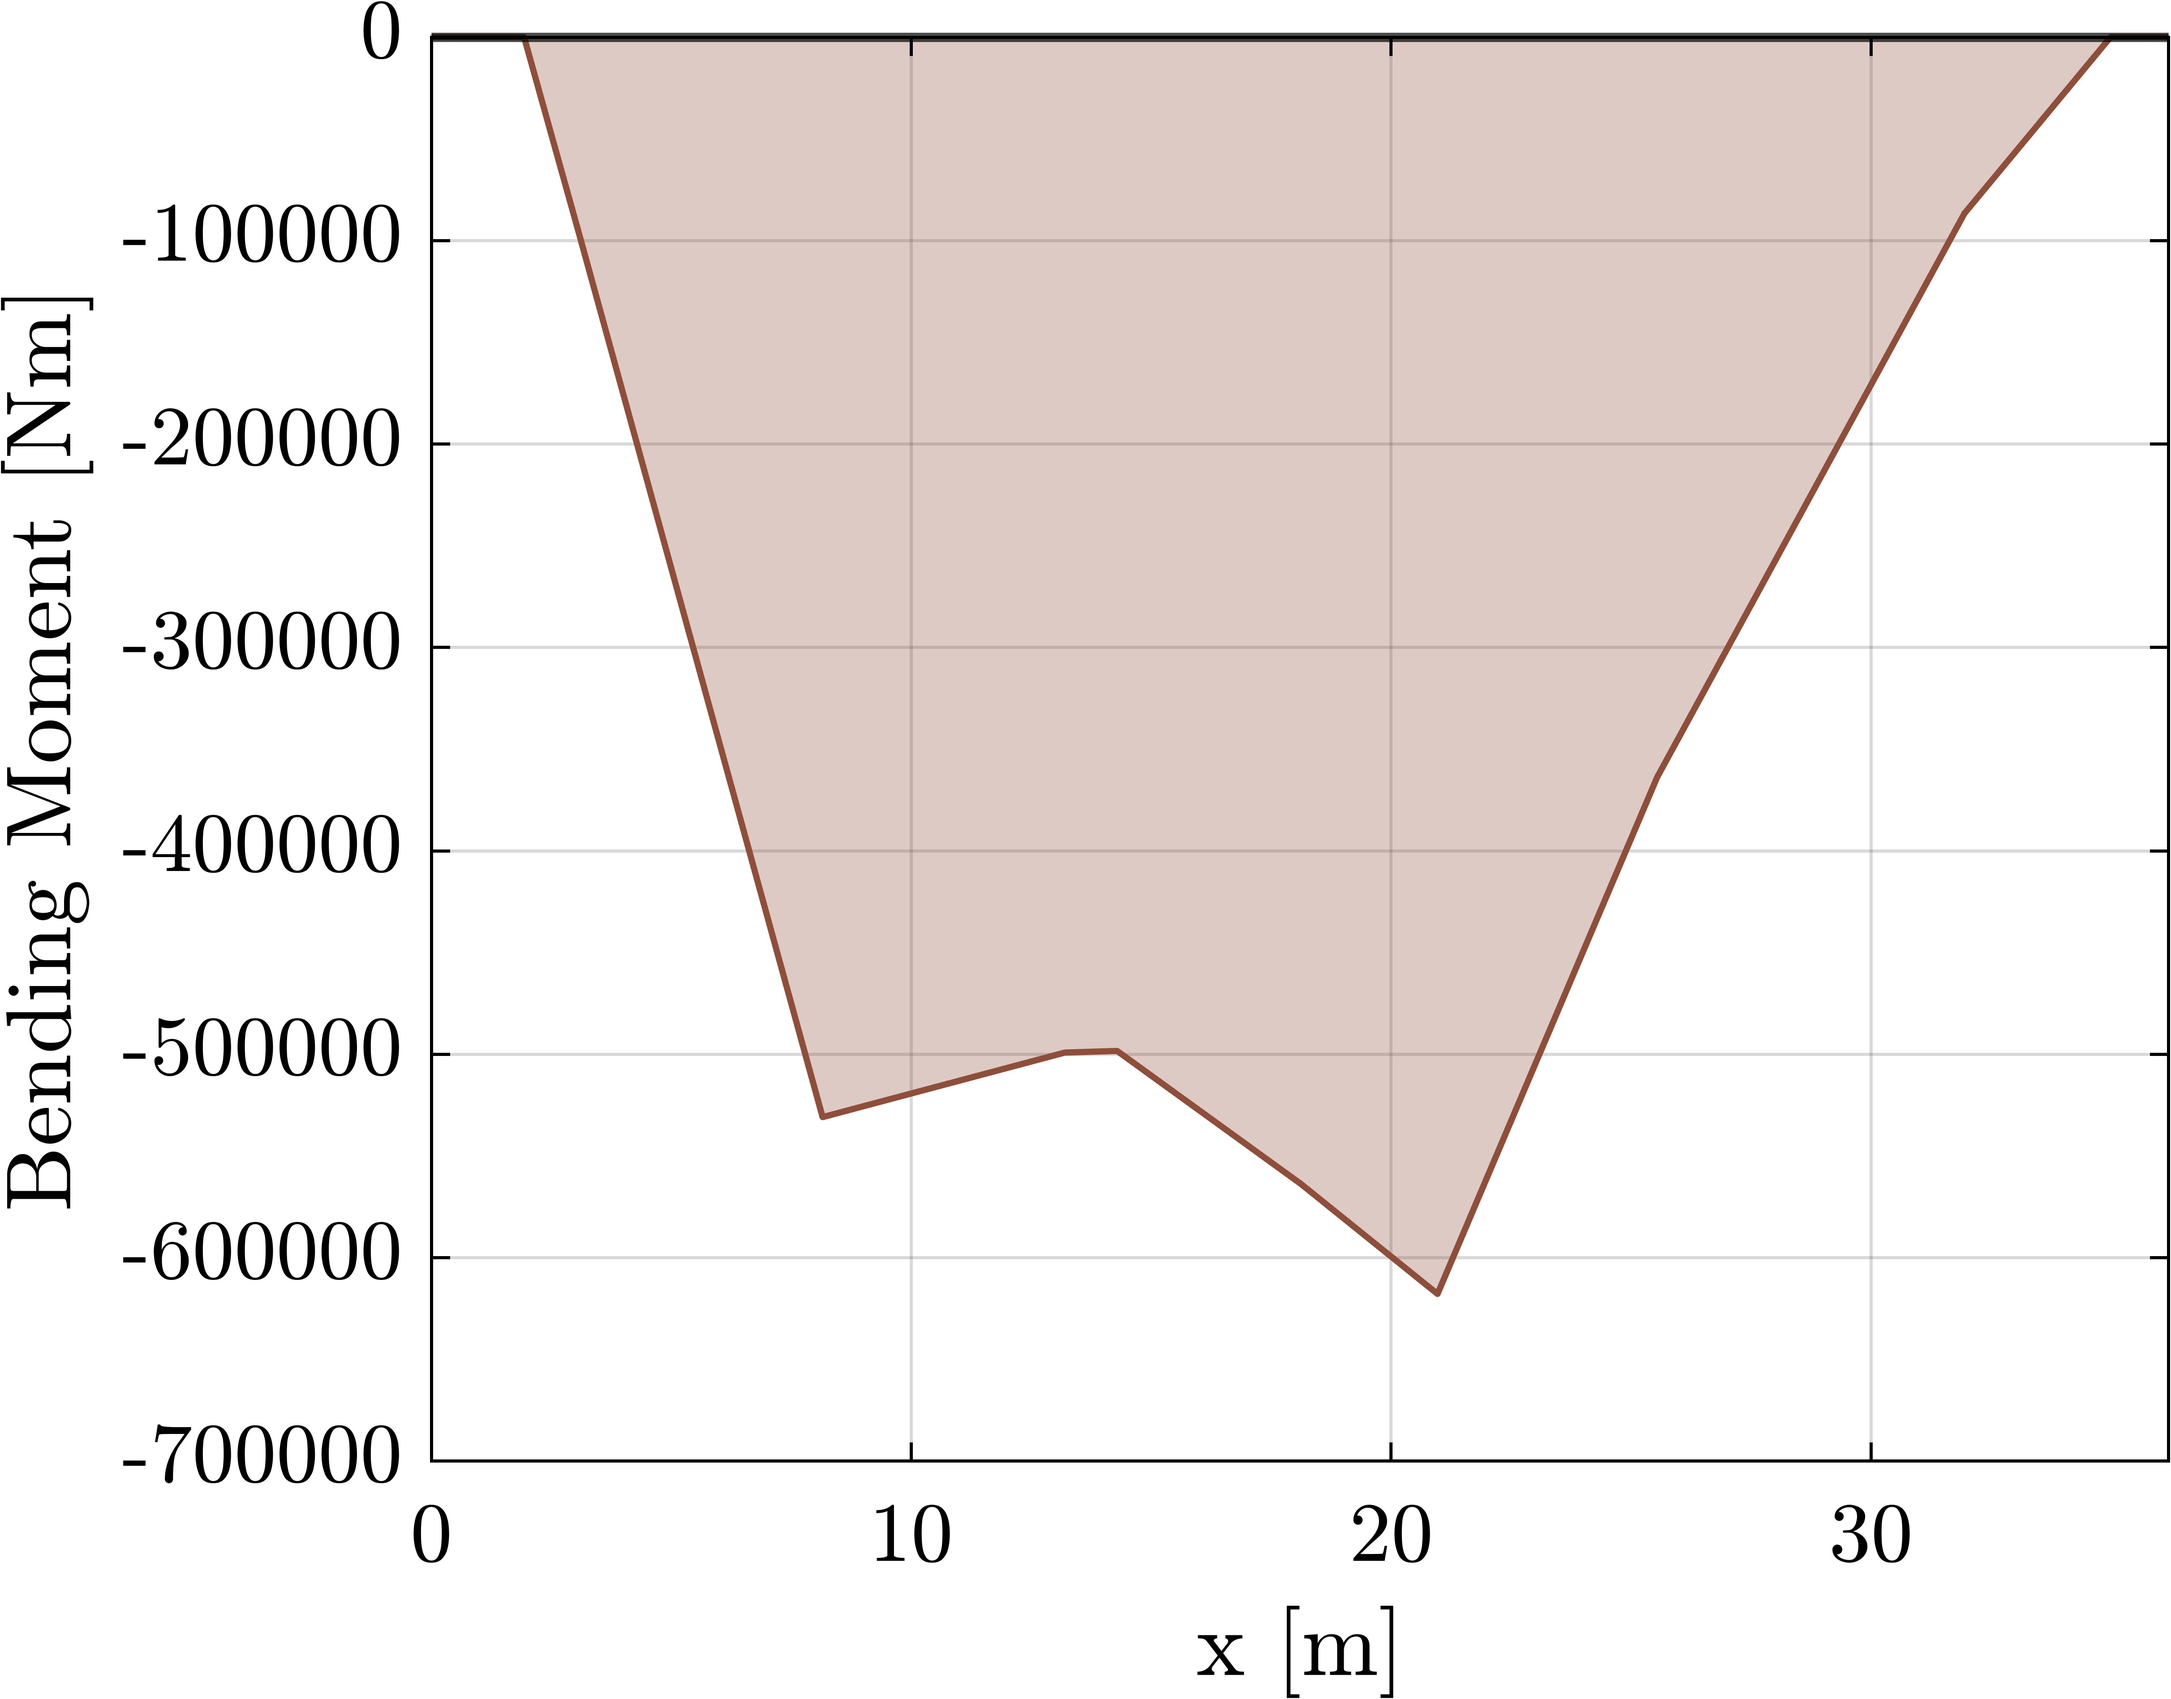
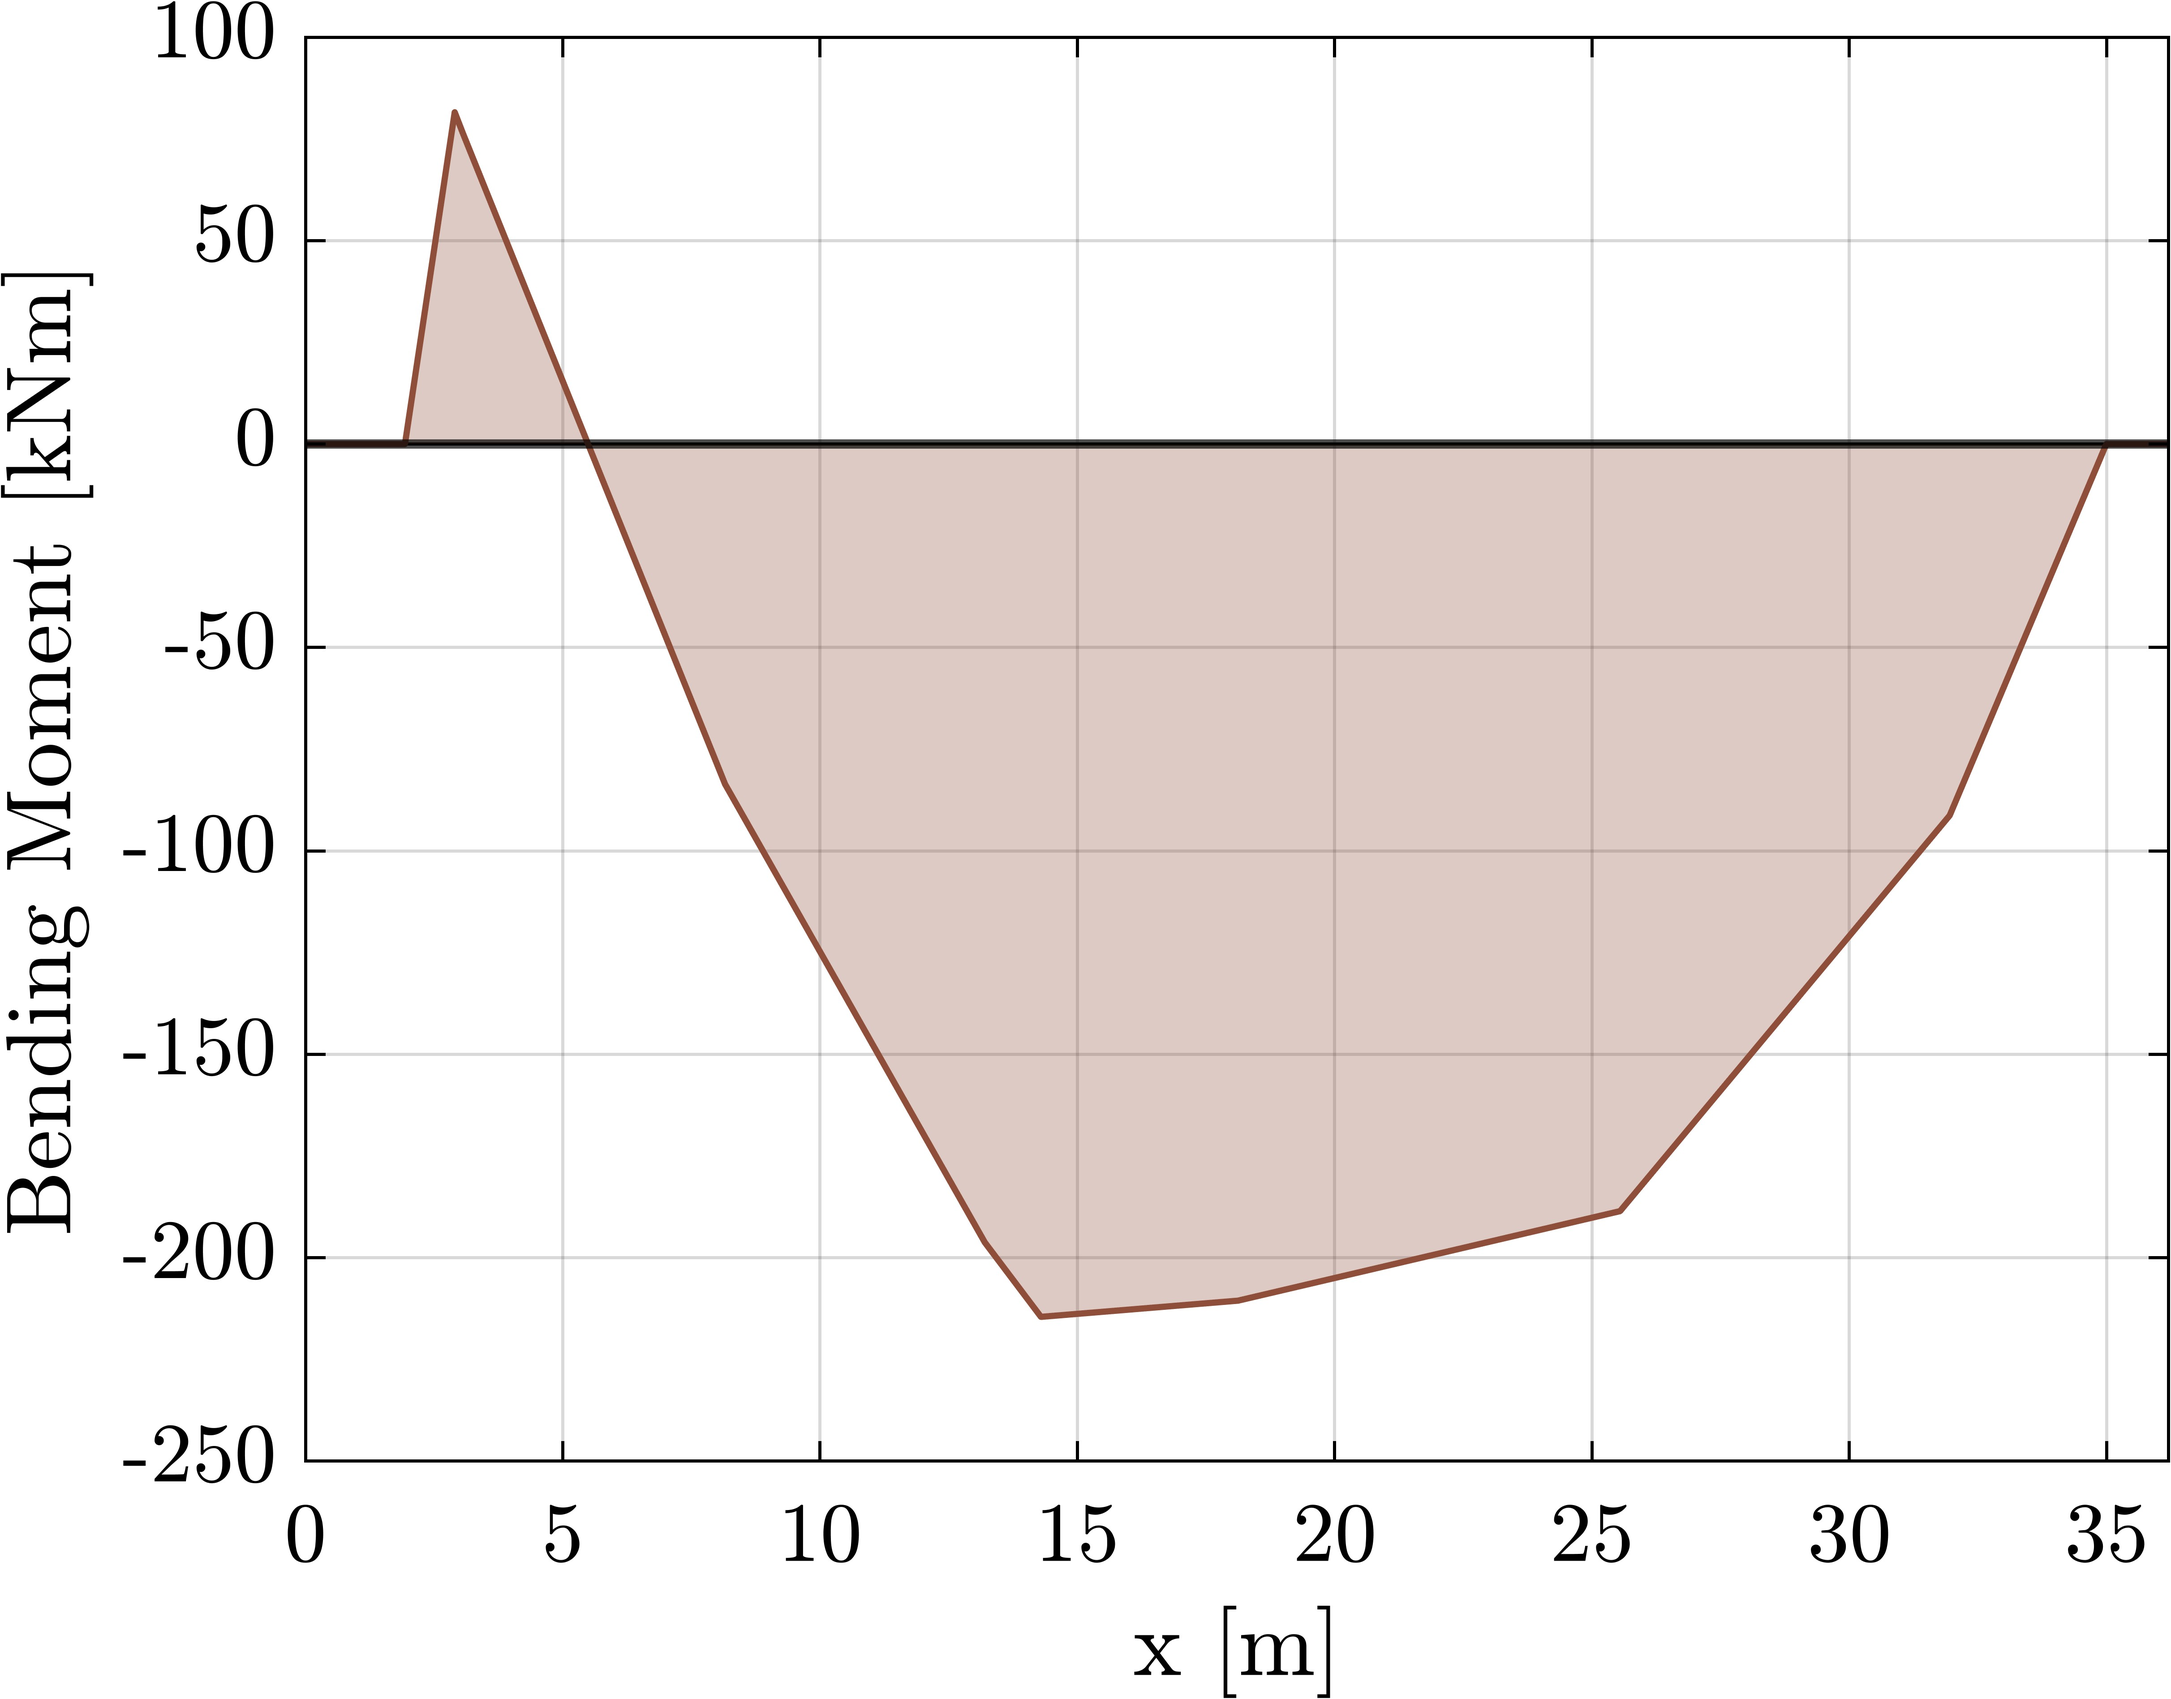
.

diff --git a/Codici/structures/loadsMECO/externalLoadsMECO.m b/Codici/structures/loadsMECO/externalLoadsMECO.m
@@ -14,6 +14,17 @@ absH = sqrt ( pos(1,:).^2+ pos(2,:).^2 + pos(3,:).^2 )-mission.environment.rEart
 mass = stateCollocation(7, :, 1:end-1);
 mass = mass(:);
 
+vxWind = mission.environment.windXFun(absH/1000);
+vyWind = mission.environment.windYFun(absH/1000);
+ 
+wind = [vxWind;vyWind;zeros(1,length(vxWind))];
+
+totalVel = vel - wind;
+
+for i = 1:length(totalVel)
+    alpha(i) = acos (dot(totalVel(:,i) , vel(:,i)) / norm(vel(:,i))/norm(totalVel(:,i) ));
+end
+
 rhoVec = mission.environment.rhoFun(absH);
 
 q = 0.5*rhoVec.*(absVel).^2;
@@ -27,10 +38,12 @@ acc = [diff(vel(1,:))'./diff(timeStage),diff(vel(2,:))'./diff(timeStage),diff(ve
 acc = [acc, acc(:,end)] ;
 
 % Estrazione valori a MECO
+idxMECO = 99;
 
-qMECO = q(99);
-vMECO = vel(:,99);
-aMECO = acc(:,99);
+qMECO = q(idxMECO);
+vMECO = vel(:,idxMECO);
+aMECO = acc(:,idxMECO);
+alphaMECO = alpha(idxMECO);
 
 v1 = vMECO/norm(vMECO);
 
@@ -40,15 +53,15 @@ v2 = cross(v3,v1)/norm(cross(v3,v1));
 
 rot = [v1,v2,v3];
 
-rot2 = [cos(alpha),-sin(alpha),0; sin(alpha),cos(alpha),0;0,0,1];
+rot2 = [cos(alphaMECO),-sin(alphaMECO),0; sin(alphaMECO),cos(alphaMECO),0;0,0,1];
 
 rot3 = rot2*rot;
 
 vMECO = rot3'*vMECO;     %check
 aMECO = rot3'*aMECO;
-massMECO = mass(99);
-posMECO = pos(:,99);
-hMECO = absH(99);
+massMECO = mass(idxMECO);
+posMECO = pos(:,idxMECO);
+hMECO = absH(idxMECO);
 %dsdt(4:6) = (ThrustIRF + D ) / m + G;  
 
 mPropUsed = configuration.totalMass - massMECO;
@@ -107,7 +120,7 @@ finsVec   = [mission.aerodynamics.finsGeom.rootChord, mission.aerodynamics.finsG
     mission.aerodynamics.finsGeom.Lambda_le, mission.aerodynamics.finsGeom.tmac];
 engineVec = [nEngines,aTotZero,aTotVacum];
 
-[~,~,~,~, mainbodyCL, mainbodyCD, finsCL, finsCD] = CLCDcomputation(machNumber,alpha,qMECO,1,mission,1,dimensions,engineVec, finsVec);
+[~,~,~,~, mainbodyCL, mainbodyCD, finsCL, finsCD] = CLCDcomputation(machNumber,alphaMECO,qMECO,1,mission,1,dimensions,engineVec, finsVec);
 
 dMECO = -rot2*qMECO * mainbodyCD * Aref * [1;0;0];
 lMECO = -rot2*qMECO * mainbodyCL * Aref * [0;-1;0];

diff --git a/Codici/structures/groundLoads/provaRunnataATerra.m b/Codici/structures/groundLoads/provaRunnataATerra.m
@@ -127,7 +127,7 @@ exportStandardizedFigure(groundAxial,'groundAxial',0.55,1.5,'ChangeColors',false
 
 %% --- Figura 2: Shear Load ---
 groundShear = figure(2); 
-ar2 = area(x_all, T_all);
+ar2 = area(x_all, T_all*1e-3);
 ar2.FaceColor = settings.color.blu;
 ar2.FaceAlpha = 0.3;
 ar2.EdgeColor = settings.color.blu;
@@ -137,7 +137,7 @@ hold on
 yline(0, 'LineWidth', 1.5, 'Color', 'k')
 grid on;
 xlabel('x [m]');
-ylabel('Shear Load [N]');
+ylabel('Shear Load [kN]');
 xlim([0, x_all(end)])
 % xline([0, cumsum(h)], 'LineStyle','--')
 setPlotSettings(title(''))
@@ -146,7 +146,7 @@ exportStandardizedFigure(groundShear,'groundShear',0.55,1.5,'ChangeColors',false
 
 %% --- Figura 3: Bending Moment ---
 groundBendingMoment = figure(3); 
-ar3 = area(x_all, M_all);
+ar3 = area(x_all, M_all*1e-3);
 ar3.FaceColor = settings.color.terracotta;
 ar3.FaceAlpha = 0.3;
 ar3.EdgeColor = settings.color.terracotta;
@@ -156,7 +156,7 @@ hold on
 yline(0, 'LineWidth', 1.5, 'Color', 'k')
 grid on;
 xlabel('x [m]');
-ylabel('Bending Moment [Nm]');
+ylabel('Bending Moment [kNm]');
 xlim([0, x_all(end)])
 setPlotSettings(title(''))
 

diff --git a/Codici/structures/camionLoads/provaRunnataCamion.m b/Codici/structures/camionLoads/provaRunnataCamion.m
@@ -107,7 +107,7 @@ end
 
 %% --- Figura 2: Shear Load ---
 camionShear = figure(2); 
-ar2 = area(x_all, T_all);
+ar2 = area(x_all, T_all*1e-3);
 ar2.FaceColor = settings.color.blu;
 ar2.FaceAlpha = 0.3;
 ar2.EdgeColor = settings.color.blu;
@@ -117,7 +117,7 @@ hold on
 yline(0, 'LineWidth', 1.5, 'Color', 'k')
 grid on;
 xlabel('x [m]');
-ylabel('Shear Load [N]');
+ylabel('Shear Load [kN]');
 xlim([0, x_all(end)])
 % xline([0, cumsum(h)], 'LineStyle','--')
 setPlotSettings(title(''))
@@ -127,7 +127,7 @@ exportStandardizedFigure(camionShear,'camionShear',0.55,1.5,'ChangeColors',false
 
 %% --- Figura 3: Bending Moment ---
 camionBendingMoment = figure(3); 
-ar3 = area(x_all, M_all);
+ar3 = area(x_all, M_all*1e-3);
 ar3.FaceColor = settings.color.terracotta;
 ar3.FaceAlpha = 0.3;
 ar3.EdgeColor = settings.color.terracotta;
@@ -137,7 +137,7 @@ hold on
 yline(0, 'LineWidth', 1.5, 'Color', 'k')
 grid on;
 xlabel('x [m]');
-ylabel('Bending Moment [Nm]');
+ylabel('Bending Moment [kNm]');
 xlim([0, x_all(end)])
 
 setPlotSettings(title(''))

diff --git a/Codici/structures/camionLoads/camionLoads.m b/Codici/structures/camionLoads/camionLoads.m
@@ -60,9 +60,9 @@ hCentroids = hCUMSUM(loadNodes - 1);
 xcg = centerOfGravity(m, hCentroids);
 
 % Posizioni bracci meccanici rispetto al naso
-xc1 = hCUMSUM(5); % scelta a caso
+xc1 = hCUMSUM(2); % scelta a caso
 xc1 = xcg - xc1;
-xc2 = hCUMSUM(12); % scelta a caso
+xc2 = hCUMSUM(17); % scelta a caso
 xc2 = xc2 - xcg;
 
 % Bilancio forze
@@ -121,12 +121,12 @@ b = zeros(3, nNodes);
 
 k = 1;
 for i = loadNodes
-    b(:,i) = [0; m(k)*gT; 0];
+    b(:,i) = [0; -m(k)*gT; 0];
     k = k + 1;
 end
 
-b(:,6) = b(:, 6) - [0;T1;0];
-b(:,13) = b(:, 13) - [0;T2;0];
+b(:,3) = b(:, 3) + [0;T1;0];
+b(:,18) = b(:, 18) + [0;T2;0];
 
 b = b(:);
 

diff --git a/Codici/structures/loadsMECO/provaRunnataMECO.m b/Codici/structures/loadsMECO/provaRunnataMECO.m
@@ -10,8 +10,6 @@ addpath(genpath('..\..\'))
 
 [mission, settings] = dataStructGlobal;
 
-mission.structure.alphaQmax = 0;
-
 % launcher = [nStages, nMotore1, nMotore2, nMotore3, %massa1, %massa2,
 % %massa3];
 launcher = [2,2,3,4,0.459952176990556, 0.753370531158904, 0.634795741885559];
